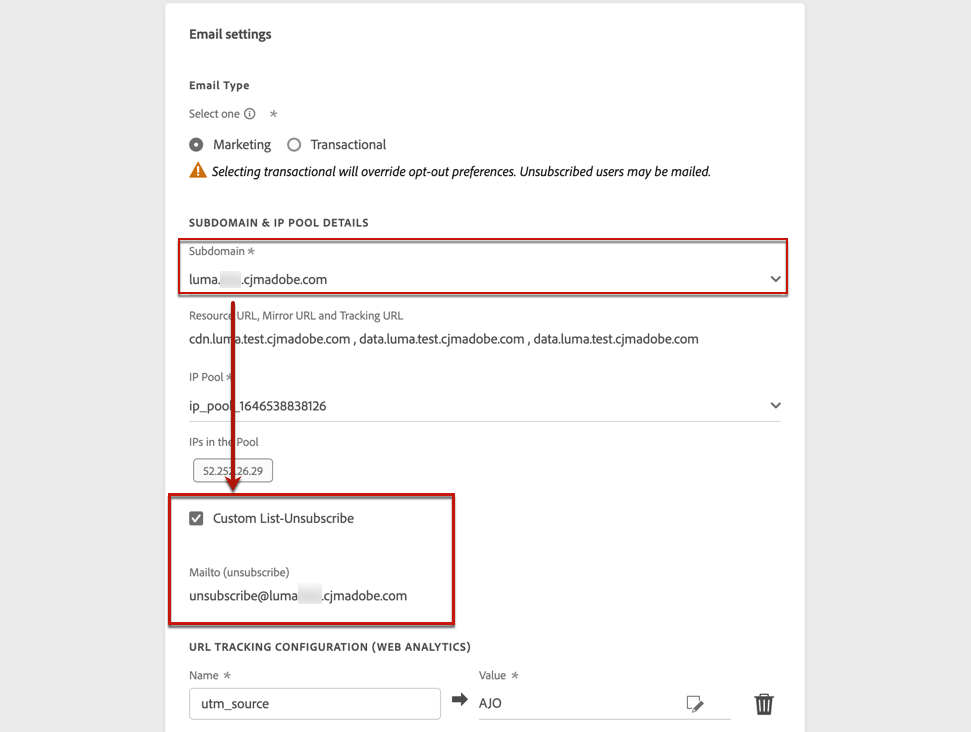
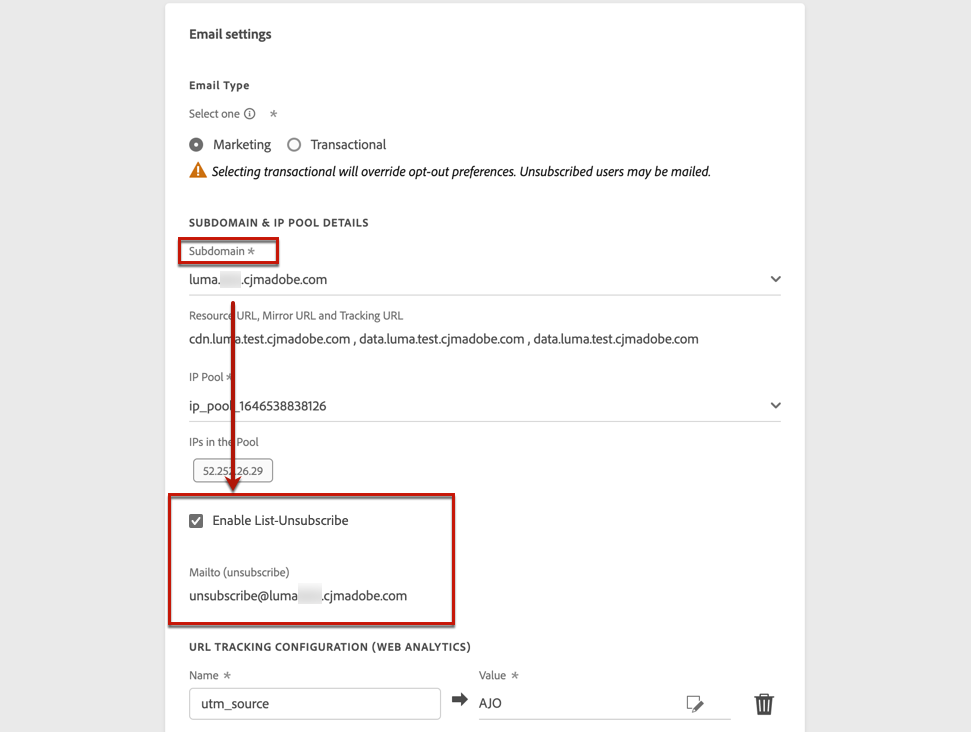
List-unsubscribe updates
Following PM answers

Changed region(s): [[0.1854, 0.3005, 0.8342, 0.4208], [0.1854, 0.6913, 0.3708, 0.7213]]

diff --git a/help/using/messages/consent.md b/help/using/messages/consent.md
@@ -149,6 +149,10 @@ To add an opt-out link in your email, follow the steps below.
 
 1. Enter the URL of the landing page where the user will be redirected once unsubscribed. This page is only here to confirm that opting out was successful.
 
+    >[!NOTE]
+    >
+    >If you enabled the List-Unsubscribe option at the message preset level, this URL will also be used when users click the unsubscribe link in the email header. [Learn more](#unsubscribe-header)
+
     ![](assets/message-tracking-opt-out-confirmation.png)
 
     You can personalize your links. Learn more on personalized URLs in [this section](../personalization/personalization-syntax.md).
@@ -157,21 +161,31 @@ To add an opt-out link in your email, follow the steps below.
 
 Once your message is sent through a [journey](../building-journeys/journey.md), if a recipient clicks the opt-out link, their profile is immediately opted out.
 
-### Unsubscribe link in message header {#unsubscribe-email}
+### Unsubscribe link in message header {#unsubscribe-header}
 
-If the recipients' email client supports displaying an unsubscribe link in the email header, emails sent with [!DNL Journey Optimizer] automatically include this link.
+If the [List-Unsubscribe option](../configuration/message-presets.md#list-unsubscribe) is enabled at the message preset level, the corresponding emails sent with [!DNL Journey Optimizer] will also include an unsubscribe link in the email header.
 
 For example, the unsubscribe link will display like this in Gmail:
 
-![](assets/unsubscribe-email.png)
+![](assets/unsubscribe-header.png)
+
+>[!NOTE]
+>
+>To display the unsubscribe link in the email header, the recipients' email client must support this feature.
 
 Depending on the email client, clicking the unsubscribe link from the header will have one of the following impacts:
 
 * The corresponding profile is immediately opted out and this choice is updated in Experience Platform. Learn more in the [Experience Platform documentation](https://experienceleague.adobe.com/docs/experience-platform/profile/ui/user-guide.html#getting-started){target="_blank"}.
 
-* It has the same effect as clicking the unsubscribe link from the email content: the recipient is redirected to a landing page including a button to confirm opting out. Learn more on opt-out management in [this section](#opt-out-management).
+* It has the same effect as clicking the one-click opt-out link from the email content. The recipient is redirected to the landing page that you specified when [adding the opt-out link](##one-click-opt-out) to your message.
 
-To define a custom unsubscribe URL and email address, you must enable it in the message presets. [Learn more](../configuration/message-presets.md)
+The unsubscribe email address is the default **[!UICONTROL Mailto (unsubscribe)]** address displayed in the corresponding message preset.
+
+>[!NOTE]
+>
+>If you disabled the [List-Unsubscribe option](../configuration/message-presets.md#list-unsubscribe) at the message preset level, no unsubscribe link will display in the email header.
+
+<!--To define a custom unsubscribe URL and email address, you must enable it in the message presets. [Learn more](../configuration/message-presets.md)-->
 
 ## Push opt-out management {#push-opt-out-management}
 

diff --git a/help/using/configuration/message-presets.md b/help/using/configuration/message-presets.md
@@ -101,17 +101,29 @@ In the **SUBDOMAIN & IP POOL DETAILS** section, you must:
 
 ### List-Unsubscribe {#list-unsubscribe}
 
-Upon [selecting a subdomain](#subdomains-and-ip-pools) from the list, the **[!UICONTROL Custom List-Unsubscribe]** option displays.
+Upon [selecting a subdomain](#subdomains-and-ip-pools) from the list, the **[!UICONTROL Enable List-Unsubscribe]** option displays.
 
 ![](assets/preset-list-unsubscribe.png)
 
 This option is enabled by default.
 
-If you leave it enabled, all emails sent with [!DNL Journey Optimizer] and using this preset will automatically include the unsubscribe link in the email header, with the default address displayed (based on the [selected subdomain](#subdomains-and-ip-pools)).
+If you leave it enabled, when you add a [one-click opt-out link](../messages/consent.md#one-click-opt-out) to a message created using this preset, an unsubscribe link will also be included into the email header, such as:
 
-If you disable this option, the default unsubscribe link provided by [!DNL Journey Optimizer] will not be included into the email header.
+![](assets/preset-list-unsubscribe-header.png)
 
-Learn more on using unsubscribe links in email header in [this section](../messages/consent.md).
+>[!NOTE]
+>
+>If you disable this option, no unsubscribe link will be included into the email header.
+
+Learn more on using email header unsubscribe links in [this section](../messages/consent.md#unsubscribe-header).
+
+* The unsubscribe email address will be the default **[!UICONTROL Mailto (unsubscribe)]** address displayed in the preset, based on the [selected subdomain](#subdomains-and-ip-pools).
+
+    ![](assets/preset-list-unsubscribe-mailto.png)
+
+* The unsubscribe URL (which is the URL of the landing page where the user will be redirected once unsubscribed) will be the URL defined for the one-click opt-out link. [Learn more](../messages/consent.md#one-click-opt-out)
+
+    ![](assets/preset-list-unsubscribe-opt-out-url.png)
 
 <!--Select the **[!UICONTROL Custom List-Unsubscribe]** option to enter your own Unsubscribe URL and/or your own Unsubscribe email address.-->
 

diff --git a/help/using/landing-pages/lp-use-cases.md b/help/using/landing-pages/lp-use-cases.md
@@ -168,5 +168,5 @@ You can also enable your recipients to unsubscribe whithout using landing pages.
 
 * **Unsubscribe link in header**
 
-    If the recipients' email client supports displaying an unsubscribe link in the email header, emails sent with [!DNL Journey Optimizer] automatically include this link. [Learn more](../messages/consent.md#unsubscribe-email)
+    If the recipients' email client supports displaying an unsubscribe link in the email header, emails sent with [!DNL Journey Optimizer] automatically include this link. [Learn more](../messages/consent.md#unsubscribe-header)
 -->
